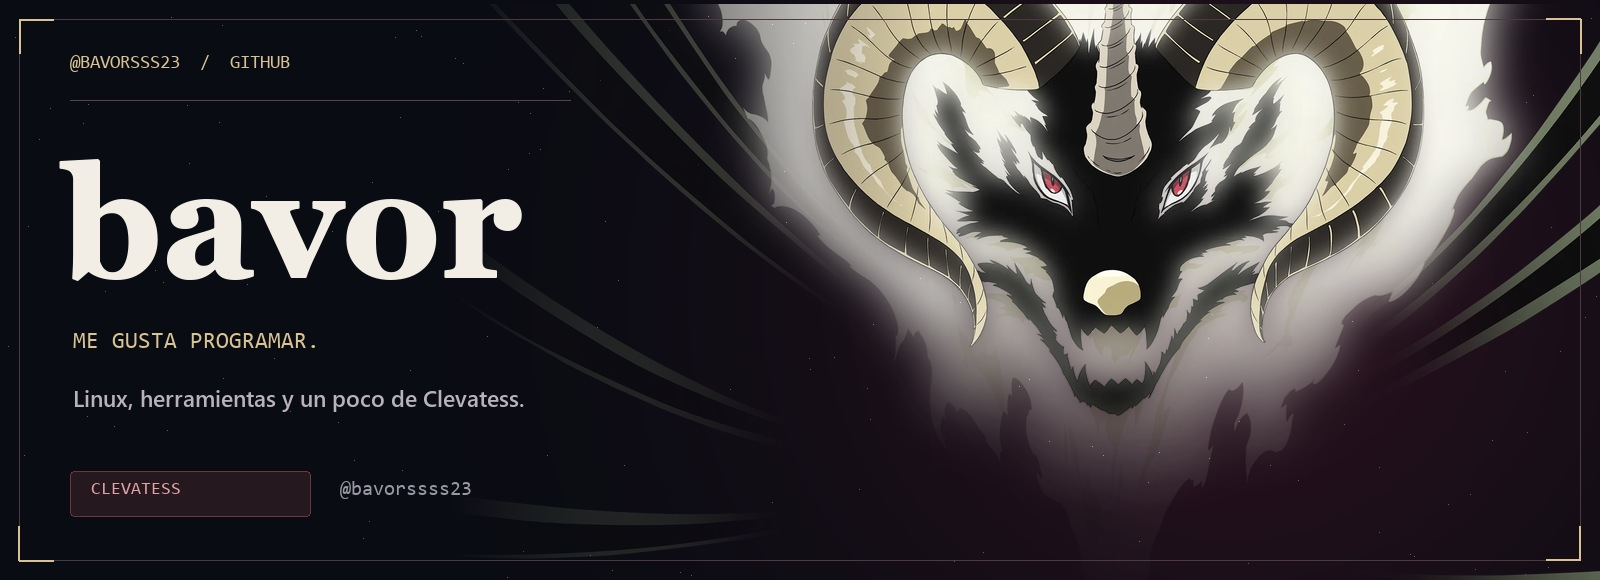
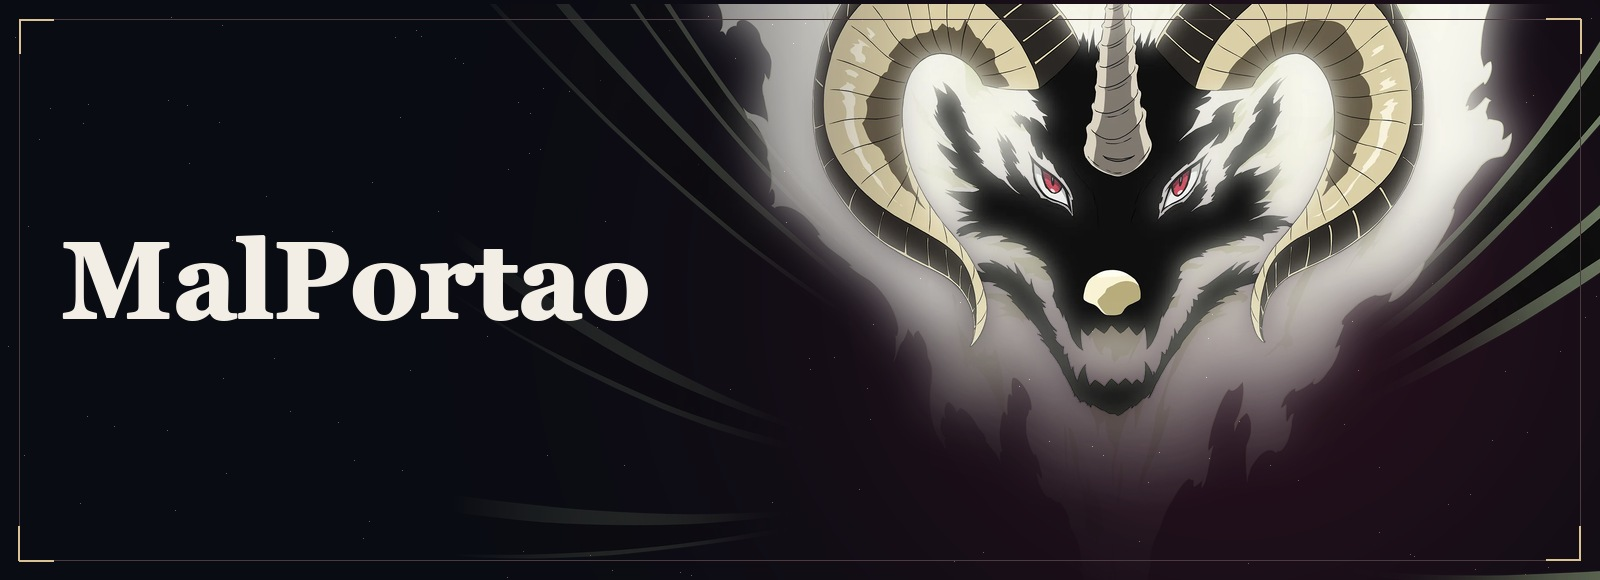
docs: reflect updated profile identity and Rust stack

diff --git a/README.md b/README.md
@@ -1,8 +1,8 @@
 <div align="center">
 
-<img src="./assets/clevatess-banner.jpg" alt="bavor — Me gusta programar. Banner con Clevatess." width="100%" />
+<img src="./assets/clevatess-banner.jpg" alt="MalPortao — banner con Clevatess." width="100%" />
 
-### Hola, soy bavor.
+### Hola, soy malportao.
 
 [Mi GitHub](https://github.com/bavorssss23) &nbsp; / &nbsp; [Repositorios](https://github.com/bavorssss23?tab=repositories)
 
@@ -14,15 +14,9 @@ Me gusta programar, crear herramientas y todo lo relacionado con **Linux**.
 
 También me interesa entender cómo funciona el malware y estudiar su desarrollo **con fines educativos**, en entornos controlados y autorizados. Es un tema que me llama la atención junto con la programación.
 
-Y sí, los banners son de **Clevatess**. No todo va a ser código.
-
-## Tecnologías
-
-Mi stack incluye **C, C++, Python, JavaScript y TypeScript**. Para la parte web, **HTML, CSS y React**; para bases de datos, **MySQL y SQLite**.
-
 <div align="center">
 
-<img src="./assets/stack-systems.svg" alt="Lenguajes: C, C++ y Python." width="400" />
+<img src="./assets/stack-systems.svg" alt="Lenguajes: C, C++, Rust y Python." width="400" />
 <img src="./assets/stack-web.svg" alt="Web: JavaScript, TypeScript, HTML, CSS y React." width="400" />
 <br>
 <img src="./assets/stack-data.svg" alt="Bases de datos: MySQL y SQLite." width="400" />
@@ -30,27 +24,16 @@ Mi stack incluye **C, C++, Python, JavaScript y TypeScript**. Para la parte web,
 
 <br><br>
 
-<img src="https://skillicons.dev/icons?i=c,cpp,python,js,ts,html,css,react,mysql,sqlite,linux&perline=11&theme=dark" alt="C, C++, Python, JavaScript, TypeScript, HTML, CSS, React, MySQL, SQLite y Linux" width="650" />
+<img src="https://skillicons.dev/icons?i=c,cpp,rust,python,js,ts,html,css,react,mysql,sqlite,linux&perline=12&theme=dark" alt="C, C++, Rust, Python, JavaScript, TypeScript, HTML, CSS, React, MySQL, SQLite y Linux" width="650" />
 
 </div>
 
 <br>
 
-<details>
-<summary>Mi stack, por escrito</summary>
-
-| Área | Tecnologías |
-| :--- | :--- |
-| Lenguajes | C, C++, Python, JavaScript y TypeScript |
-| Web | HTML, CSS y React |
-| Bases de datos | MySQL y SQLite |
-| Sistema operativo | Linux |
-
-</details>
 
 <img src="./assets/divider.svg" alt="" width="100%" />
 
-<img src="./assets/clevatess-scene.jpg" alt="Banner de Clevatess con Alicia y detalles rojos y dorados." width="100%" />
+<img src="./assets/clevatess-scene.jpg" alt="Ilustración de Clevatess con Alicia, sin texto." width="100%" />
 
 <br>
 
@@ -61,7 +44,5 @@ Si quieres echar un vistazo, aquí están [mis repositorios públicos](https://g
 <img src="./assets/divider.svg" alt="" width="100%" />
 
 **Gracias por pasarte.**
-
-<sub>Ilustraciones de Clevatess: ©Yuji Iwahara/LDF/クレバテス製作委員会 · <a href="https://clevatess.com/1st/">Fuente oficial</a>.<br>Este es un perfil personal, sin afiliación con la serie.</sub>
 
 </div>
